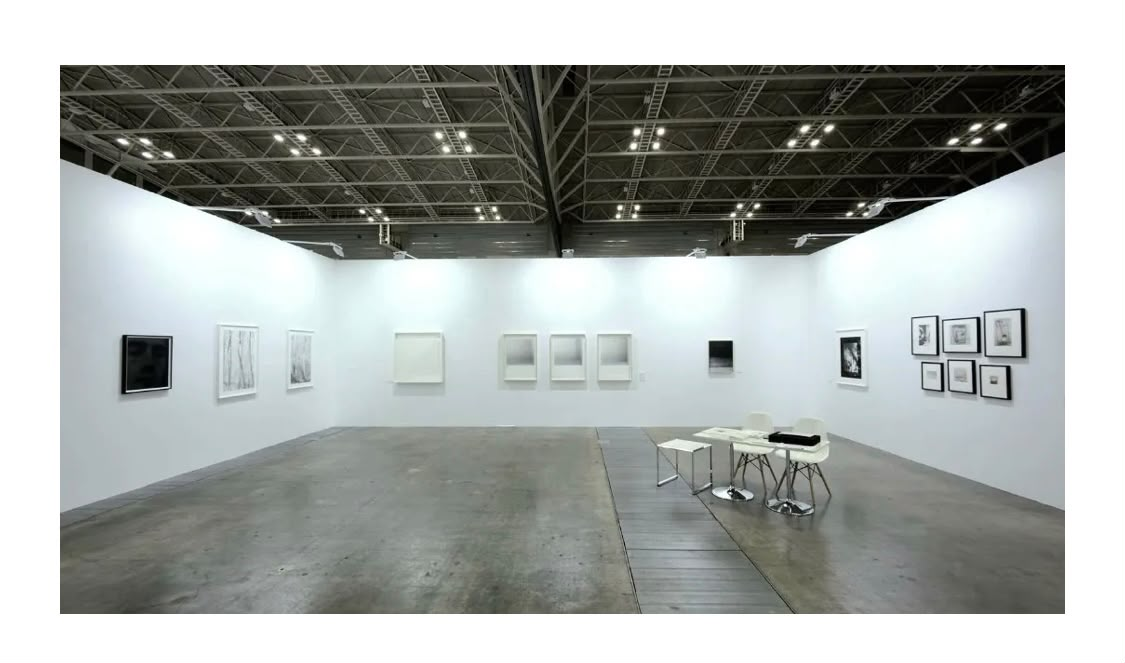
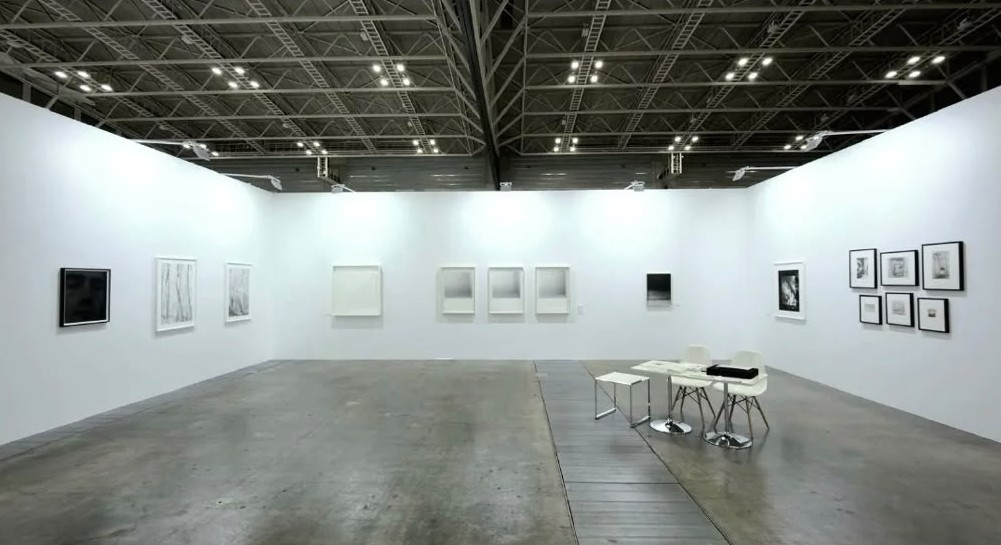
Tokyo Gendai: booth photo as main image (white border trimmed), English title on both languages

diff --git a/src/data/projects.js b/src/data/projects.js
@@ -27,7 +27,6 @@ export const projects = [
     slug: "tokyo-gendai-sept-2026",
     journal: true,
     title: "Tokyo Gendai",
-    titleJa: "東京現代",
     tagline: "Framing & installation",
     subtitle: "Curatorial Gallery",
     year: "September 2026",
@@ -38,11 +37,11 @@ export const projects = [
     ],
     description: "Framing and installation for Curatorial Gallery at Tokyo Gendai.",
     descriptionJa: `東京現代（Tokyo Gendai）に出展したCuratorial Galleryの、額装と設置を手がけました。`,
-    cover: "IMG_9041.jpg",
+    cover: "booth.jpg",
     images: [
-      "IMG_9041.jpg",
-      "IMG_9042.jpg","IMG_9043.jpg","IMG_9044.jpg","IMG_9045.jpg",
-      "IMG_9046.jpg","IMG_9047.jpg","visitors.jpg","booth.jpg",
+      "booth.jpg",
+      "IMG_9041.jpg","IMG_9042.jpg","IMG_9043.jpg","IMG_9044.jpg",
+      "IMG_9045.jpg","IMG_9046.jpg","IMG_9047.jpg","visitors.jpg",
     ],
   },
   // August 2026

diff --git a/src/data/ja.js b/src/data/ja.js
@@ -39,7 +39,6 @@ const terms = {
   'Venue': '会場',
   'Fair': 'アートフェア',
   'Framing & Installation': '額装・設置',
-  'Tokyo Gendai': '東京現代',
   'Client': 'クライアント',
   'Photography': '撮影',
   'Photographer': '撮影',
